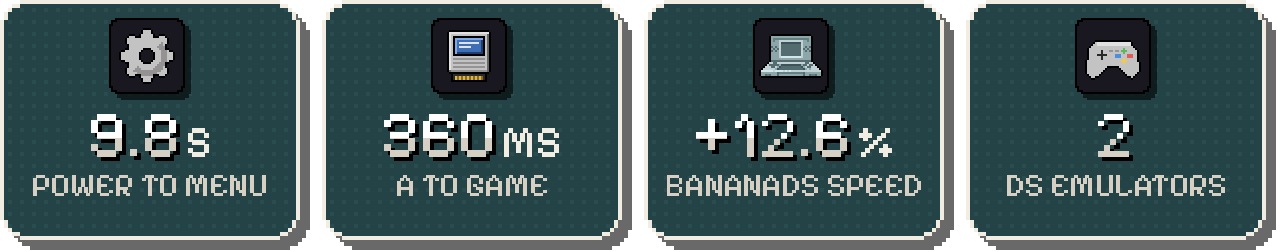
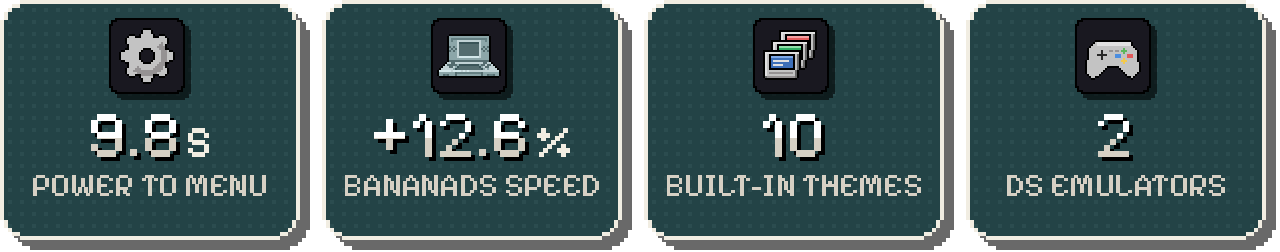
README and site preview: facts from the reviewed notes
- Game start ~920 -> ~360 ms removed everywhere (stats image too): that speed-up is already in v0.4.2.
- Stats: 9.8 s power to menu, +12.6% BananaDS, 10 built-in themes, 2 DS emulators.
- N64: Banjo-Kazooie 64 -> 126 fps unthrottled on the Plus, Bomberman 64 70% -> 99% on the RG DS (no Super Mario 64
  numbers); PlayStation: Silent Hill's late frames and sound dropouts per 30 s -> 0.

Claude-Session: https://claude.ai/code/session_01StxwK2MT4YoKvLdgJ4FmuR

diff --git a/web/preview/index.html b/web/preview/index.html
@@ -92,10 +92,10 @@
       </ul>
       <div class="stats units">
         <div><b>9.8 s</b><span>power button to menu</span></div>
-        <div><b>360 ms</b><span>from A to the game</span></div>
         <div><b>+12.6%</b><span>BananaDS speed</span></div>
+        <div><b>10</b><span>built-in themes</span></div>
       </div>
-      <p class="alpha">Boot: 12.0 s in 0.4.2, timed with a stopwatch by a QA tester (handheld not recorded). Starting a game was about 920 ms in 0.4.2. BananaDS: fast-forward throughput at 2x on an RG DS Plus, average of 9 games.</p>
+      <p class="alpha">Boot: 12.0 s in 0.4.2, timed with a stopwatch by a QA tester (handheld not recorded). BananaDS: fast-forward throughput at 2x on an RG DS Plus, average of 9 games.</p>
       <div class="cta">
         <a class="btn" href="https://github.com/JorreFog/BananaLinux/releases/tag/v0.5.0">Read the release notes</a>
       </div>
@@ -110,7 +110,7 @@
       <div class="tiles">
         <div class="tile"><img src="assets/icons/nds.png" alt=""><b>Two ways to play DS</b><span>Choose SuperDrastic or BananaDS, with each DS screen on its own display. F + SELECT swaps them.</span></div>
         <div class="tile"><img src="assets/icons/moon.png" alt=""><b>Close the lid</b><span>Take a break. Your game pauses when the handheld sleeps and resumes when you open it. After a long sleep on the battery it saves and powers off.</span></div>
-        <div class="tile"><img src="assets/icons/gamepad.png" alt=""><b>Beyond Nintendo DS</b><span>Play GBA, Game Boy, NES, SNES, Mega Drive, PlayStation and N64 through RetroArch. N64 is much faster in 0.5.0.</span></div>
+        <div class="tile"><img src="assets/icons/gamepad.png" alt=""><b>Beyond Nintendo DS</b><span>Play GBA, Game Boy, NES, SNES, Mega Drive, PlayStation and N64 through RetroArch. In 0.5.0 N64 is up to twice as fast, and PlayStation games no longer stutter or crackle.</span></div>
         <div class="tile"><img src="assets/icons/store.png" alt=""><b>Updates over Wi-Fi</b><span>Settings finds, downloads and checks the update. It installs to the other slot, so the previous version stays one restart away.</span></div>
         <div class="tile"><img src="assets/icons/music.png" alt=""><b>Bluetooth</b><span>Headphones, speakers and controllers. Wi-Fi keeps working while Bluetooth plays.</span></div>
         <div class="tile"><img src="assets/icons/phone.png" alt=""><b>Connected when you want</b><span>Copy games over Wi-Fi, sync with a home server, and use BananaDS for RetroAchievements and online DS play.</span></div>

diff --git a/tools/make-readme-art.py b/tools/make-readme-art.py
@@ -497,8 +497,8 @@ VIDEOS = [  # (YouTube id, channel, title)
 
 STATS = [  # (icon, number, unit, label): 0.5.0's release notes
     ("gear", "9.8", "S", "POWER TO MENU"),
-    ("cart", "360", "MS", "A TO GAME"),
     ("nds", "+12.6", "%", "BANANADS SPEED"),
+    ("collection", "10", "", "BUILT-IN THEMES"),
     ("gamepad", "2", "", "DS EMULATORS"),
 ]
 

diff --git a/README.md b/README.md
@@ -39,9 +39,9 @@ BananaOS is a complete Linux system built specifically for the RG DS and RG DS P
 It starts directly in the menu, releases display, input and audio resources when launching a game, and pauses play when you close the lid. Updates come over Wi-Fi and install to a second system slot, so the previous version remains one restart away. The menu speaks English and Simplified Chinese (简体中文, translated by Majirefy).
 
 <p align="center">
-  <img src="docs/img/readme/stats.png" width="100%" alt="9.8 s from the power button to the menu, 360 ms from A to the game, BananaDS 12.6% faster, 2 DS emulators">
+  <img src="docs/img/readme/stats.png" width="100%" alt="9.8 s from the power button to the menu, BananaDS 12.6% faster, 10 built-in layout themes, 2 DS emulators">
 </p>
-<p align="center"><sub>9.8 s from the power button to the menu (12.0 s in 0.4.2), timed with a stopwatch by a QA tester (which handheld was not recorded); about 360 ms from A to the game (about 920 ms in 0.4.2); BananaDS's fast-forward throughput at 2x on an RG DS Plus, average of 9 games, against 0.4.2. From the kernel starting to the menu, 0.4.2 measured 3.9 s on the RG DS and 5.9 s on the RG DS Plus.</sub></p>
+<p align="center"><sub>9.8 s from the power button to the menu (12.0 s in 0.4.2), timed with a stopwatch by a QA tester (which handheld was not recorded); BananaDS's fast-forward throughput at 2x on an RG DS Plus, average of 9 games, against 0.4.2. From the kernel starting to the menu, 0.4.2 measured 3.9 s on the RG DS and 5.9 s on the RG DS Plus.</sub></p>
 
 <a id="new-in-0-5-0"></a>
 <img src="docs/img/readme/h-new.png" width="100%" alt="">
@@ -81,8 +81,8 @@ The full list, with every fix: the [0.5.0 release notes](https://github.com/Jorr
 
 **Other systems and speed**
 
-- **N64, much faster** (Super Mario 64 on the RG DS Plus: 40–50 → 55–60 fps), **PlayStation** without stutter and crackle, and **GBA** games with RetroAchievements start in a quarter of a second instead of up to 26 s. An emulator choice per system and a screen border.
-- **Boot** 12.0 s → 9.8 s from the power button to the menu (a QA tester's stopwatch; handheld not recorded); **starting a game** ~920 ms → ~360 ms; **deep sleep** works again where it got stuck in a lighter sleep.
+- **N64, much faster:** rendered at the N64's native resolution, Banjo-Kazooie run unthrottled went from 64 to 126 frames a second on the RG DS Plus, and Bomberman 64 from 70% to 99% speed on the RG DS. **PlayStation:** no more stutter or crackle (Silent Hill on the RG DS Plus: 20–41 late frames and 3–6 sound dropouts per 30 s → 0). **GBA** games with RetroAchievements start in a quarter of a second instead of up to 26 s. An emulator choice per system and a screen border.
+- **Boot** 12.0 s → 9.8 s from the power button to the menu (a QA tester's stopwatch; handheld not recorded); **deep sleep** works again where it got stuck in a lighter sleep.
 - **Simplified Chinese (简体中文):** Majirefy's 0.5.0 translation, 610 new lines and 344 revised ones. Thank you, Majirefy! RetroArch's own menu and messages now follow the language too.
 
 <a id="get-it"></a>
